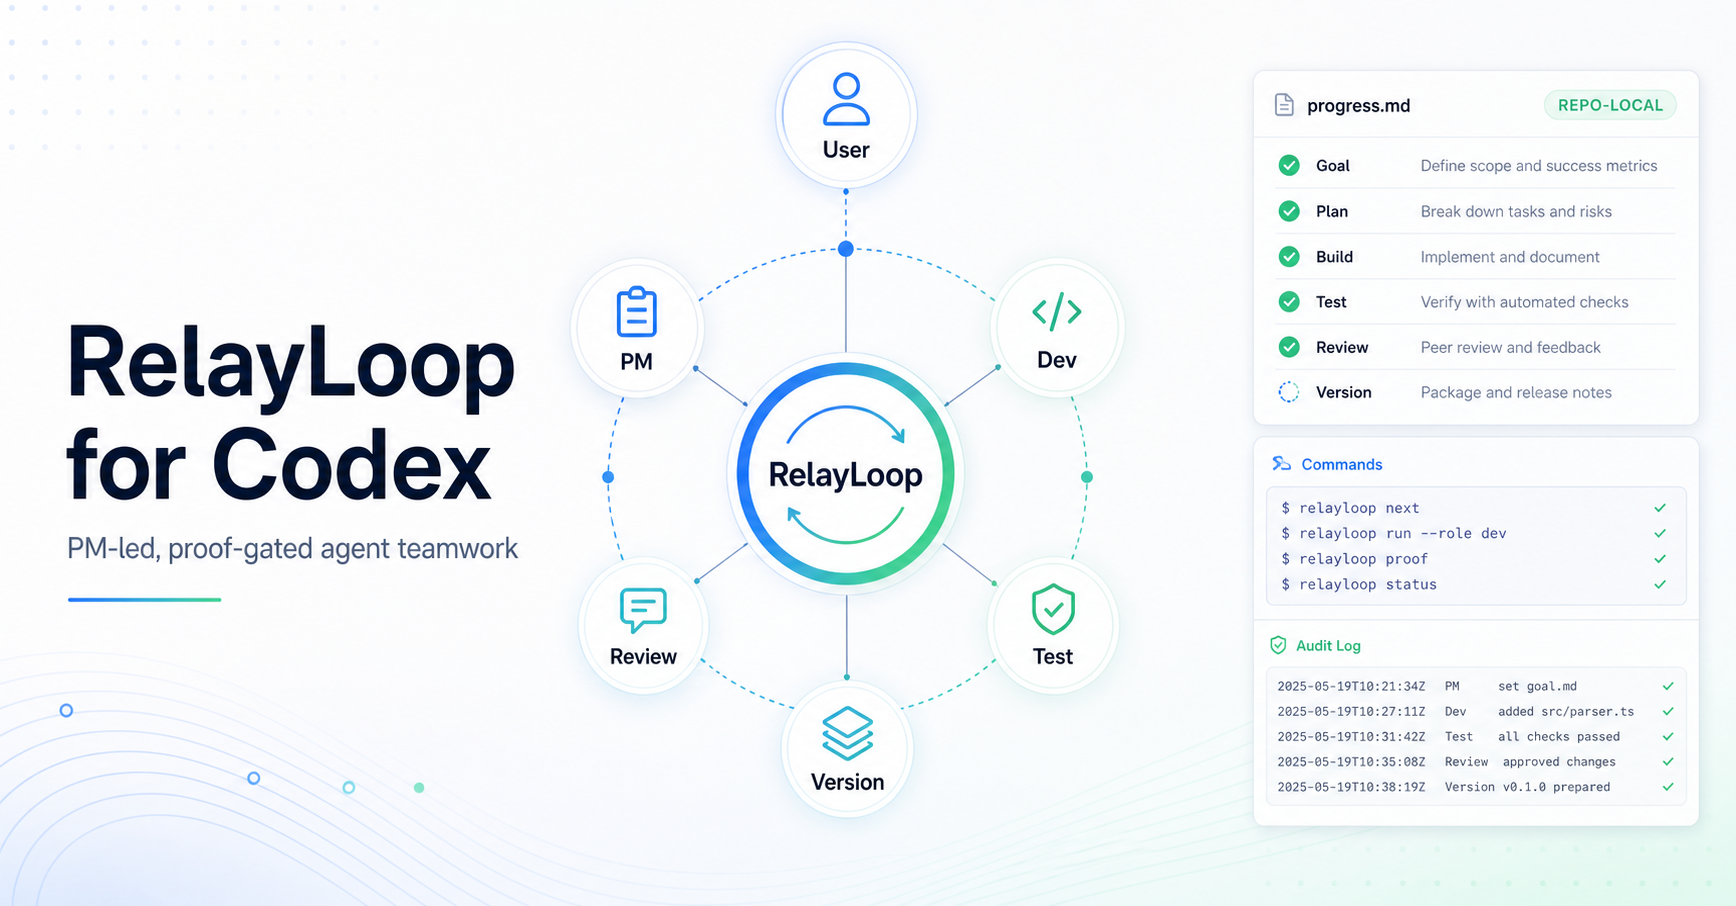
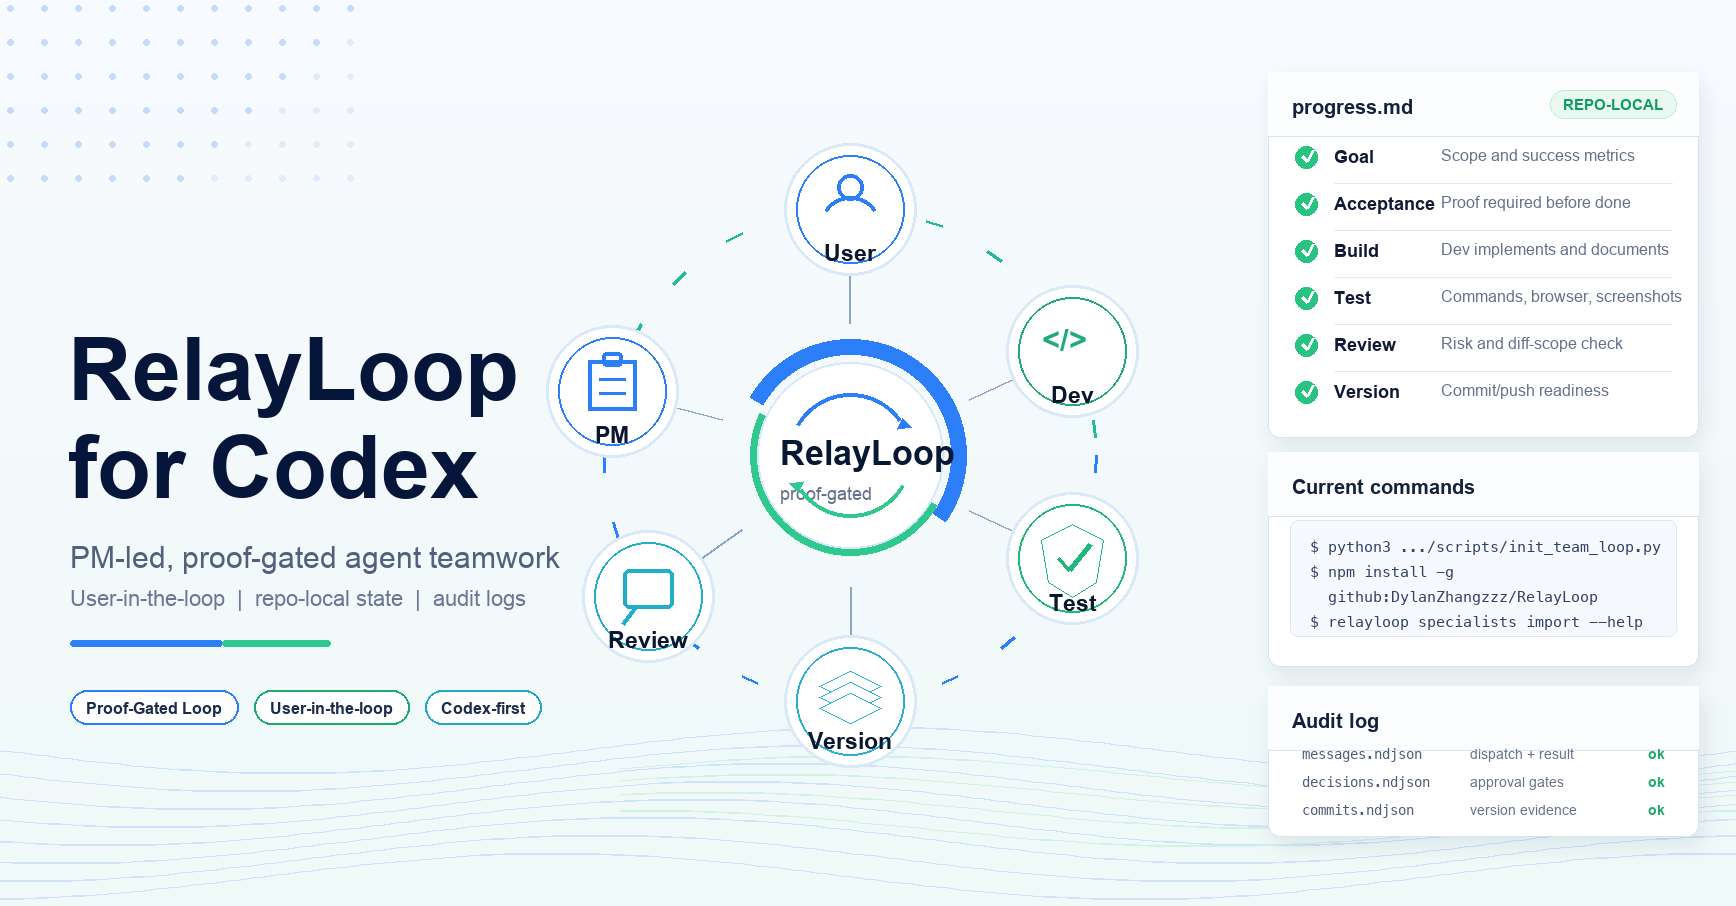
docs: update README hero

diff --git a/README.md b/README.md
@@ -29,8 +29,6 @@
 
 <p align="center">
   <img src="./assets/relayloop-hero.png" alt="RelayLoop PM-led proof-gated engineering loop" width="920">
-  <br>
-  <sub>Concept visual: the PM-led loop is current; command labels in the image are workflow shorthand. Current CLI commands are documented below.</sub>
 </p>
 
 ## What Is RelayLoop?

diff --git a/README.zh-CN.md b/README.zh-CN.md
@@ -12,8 +12,6 @@
 
 <p align="center">
   <img src="./assets/relayloop-hero.png" alt="RelayLoop PM-led proof-gated engineering loop" width="920">
-  <br>
-  <sub>概念示意图：PM-led loop 是当前能力；图中的 command 标签是工作流速记，当前 CLI 以本文档说明为准。</sub>
 </p>
 
 ## RelayLoop 是什么？